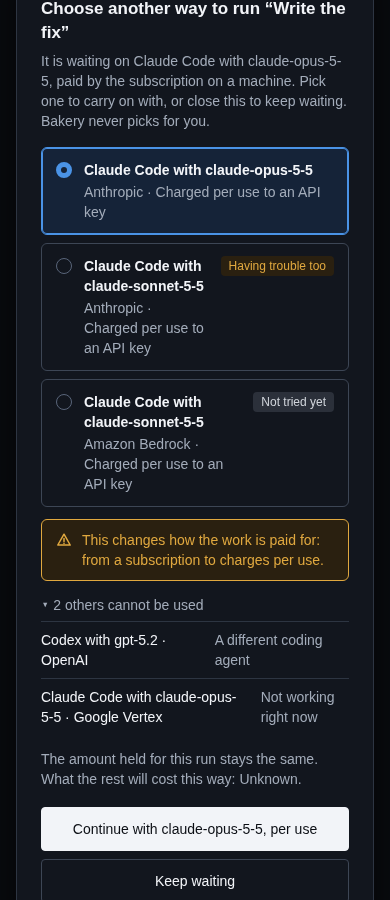
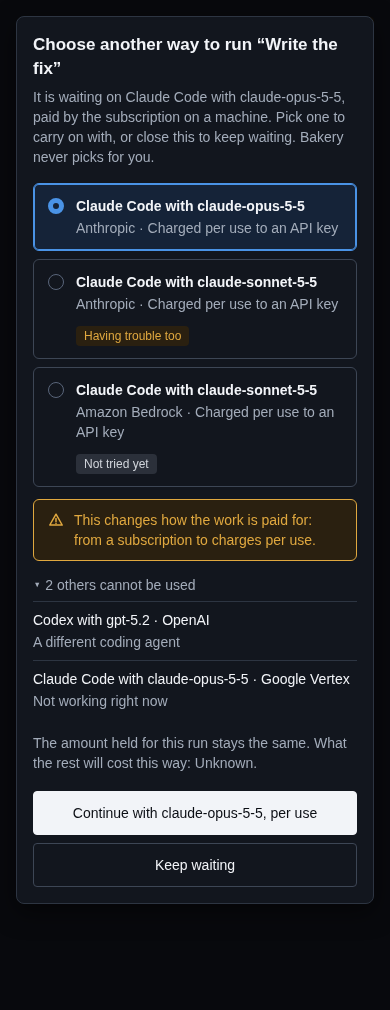
design(70): phone dialog mock stacks its badges

diff --git a/design-70/continue/choose-phone-dark.html b/design-70/continue/choose-phone-dark.html
@@ -41,7 +41,13 @@ body.phone .btn{height:44px}
 .no span{color:var(--color-fg-muted)}
 .cost{color:var(--color-fg-muted);margin:14px 0 0}
 .foot{display:flex;justify-content:flex-end;gap:8px;margin-top:18px}
-body.phone .foot{flex-direction:column-reverse}</style></head><body class="phone"><div class="h"><b>Run 3</b><span class="badge warn">Waiting on a model</span></div><div class="sub">Started 14:02 · Fix the flaky upload test</div>
+body.phone .foot{flex-direction:column-reverse}
+body.phone .scrim{align-items:flex-start;position:absolute;min-height:100%}
+body.phone .dlg{padding:16px}
+body.phone .opt{flex-wrap:wrap}
+body.phone .opt .t{flex-basis:calc(100% - 28px)}
+body.phone .opt .badge{margin-left:28px}
+body.phone .no{flex-direction:column;gap:2px}</style></head><body class="phone"><div class="h"><b>Run 3</b><span class="badge warn">Waiting on a model</span></div><div class="sub">Started 14:02 · Fix the flaky upload test</div>
 <div class="card"><svg width="16" height="16" viewBox="0 0 16 16" fill="none" stroke="currentColor" stroke-width="1.5"><path d="M8 2.2 14.2 13H1.8L8 2.2Z" stroke-linejoin="round"/><path d="M8 6.6v3M8 11.3v.2" stroke-linecap="round"/></svg><div class="g"><b>Waiting: Claude Code cannot reach its model</b><p>The step “Write the fix” runs on Claude Code with claude-opus-5-5, paid by the subscription on a machine. Anthropic has been limiting requests since 14:31.</p><p class="m">Bakery has not moved this work anywhere else. It checks again at 14:46.</p></div><span class="btn">Choose another way to run it</span></div>
 <div class="steps"><div class="st"><span class="mk done">✓</span><div class="b"><b>Read the issue</b><span>Done in 40 seconds</span></div></div><div class="st"><span class="mk done">✓</span><div class="b"><b>Plan</b><span>Done in 2 minutes</span></div></div><div class="st"><span class="mk wait">!</span><div class="b"><b>Write the fix</b><span>Waiting on Claude Code with claude-opus-5-5.</span></div></div><div class="st"><span class="mk none"></span><div class="b"><b>Check the result</b><span>Not started</span></div></div></div><div class="scrim"><div class="dlg"><h2>Choose another way to run “Write the fix”</h2><p class="intro">It is waiting on Claude Code with claude-opus-5-5, paid by the subscription on a machine. Pick one to carry on with, or close this to keep waiting. Bakery never picks for you.</p>
 <div class="opt on"><span class="radio"></span><div class="t"><b>Claude Code with claude-opus-5-5</b><span>Anthropic · Charged per use to an API key</span></div></div>
